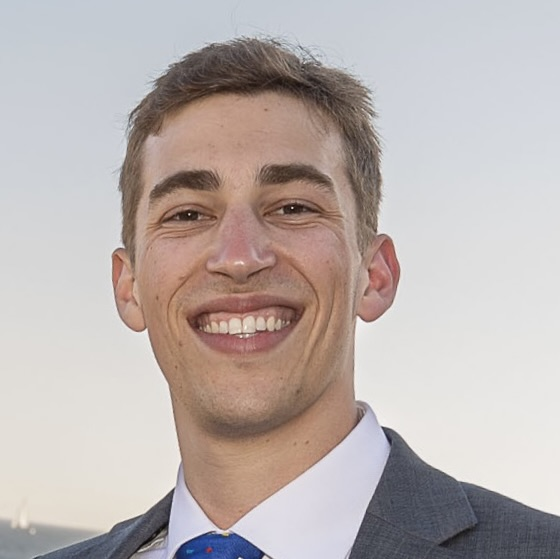
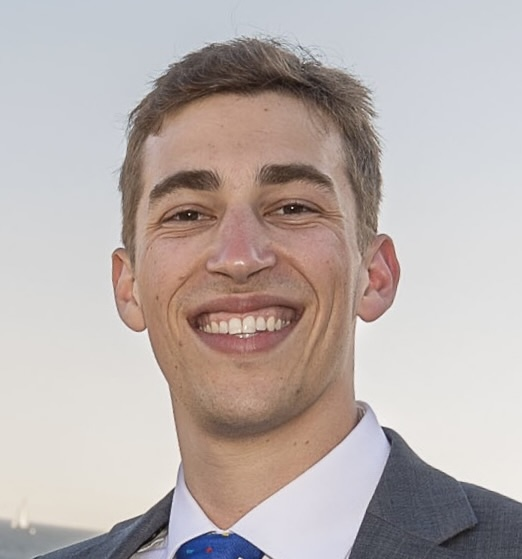
updated some styling and workflow action script

Changed region(s): [[0.1533, 0.0608, 1.0, 1.0], [0.0613, 0.9732, 0.1533, 1.0]]

diff --git a/css/utils.css b/css/utils.css
@@ -181,3 +181,11 @@ h1 a.black-link:hover {
   border-radius: 70%;
   cursor: pointer; /* Cursor on hover */
 }
+
+
+img.prof-pic {
+  float: left;
+  margin-right: 1em;
+  width: 25%;
+  border-radius: 50%;
+}

diff --git a/index.md b/index.md
@@ -5,16 +5,18 @@
 layout: home
 ---
 
-![image tooltip here](/assets/images/headshot.JPG){: style="float: left; margin-right: 1em;"  width="25%"}
-
-My name is Gabe Schumm!
-
-I recently defended my Ph.D. in computational physics and am seeking opportunities in data science and machine learning.
-
-A collection of [projects]({{ site.baseurl }}{% link portfolio.md %}) I've worked on over the years can be found below. Click for more info!
+<!-- ![image tooltip here](/assets/images/headshot.JPG){: style="float: left; margin-right: 1em;"  width="25%"} -->
+<img src="/assets/images/headshot.JPG" alt="profile pic" class = "prof-pic">
 
 
-<br/><br/><br/>
+###  My name is Gabe Schumm!
+
+###  I recently defended my Ph.D. in computational physics and am seeking opportunities in data science and machine learning.
+
+### A collection of [projects]({{ site.baseurl }}{% link portfolio.md %}) I've worked on over the years can be found below. Click for more info!
+
+
+<br/><br/>
 
 
 <!-- # [Portfolio]({{ site.baseurl }}{% link portfolio.md %}) -->
